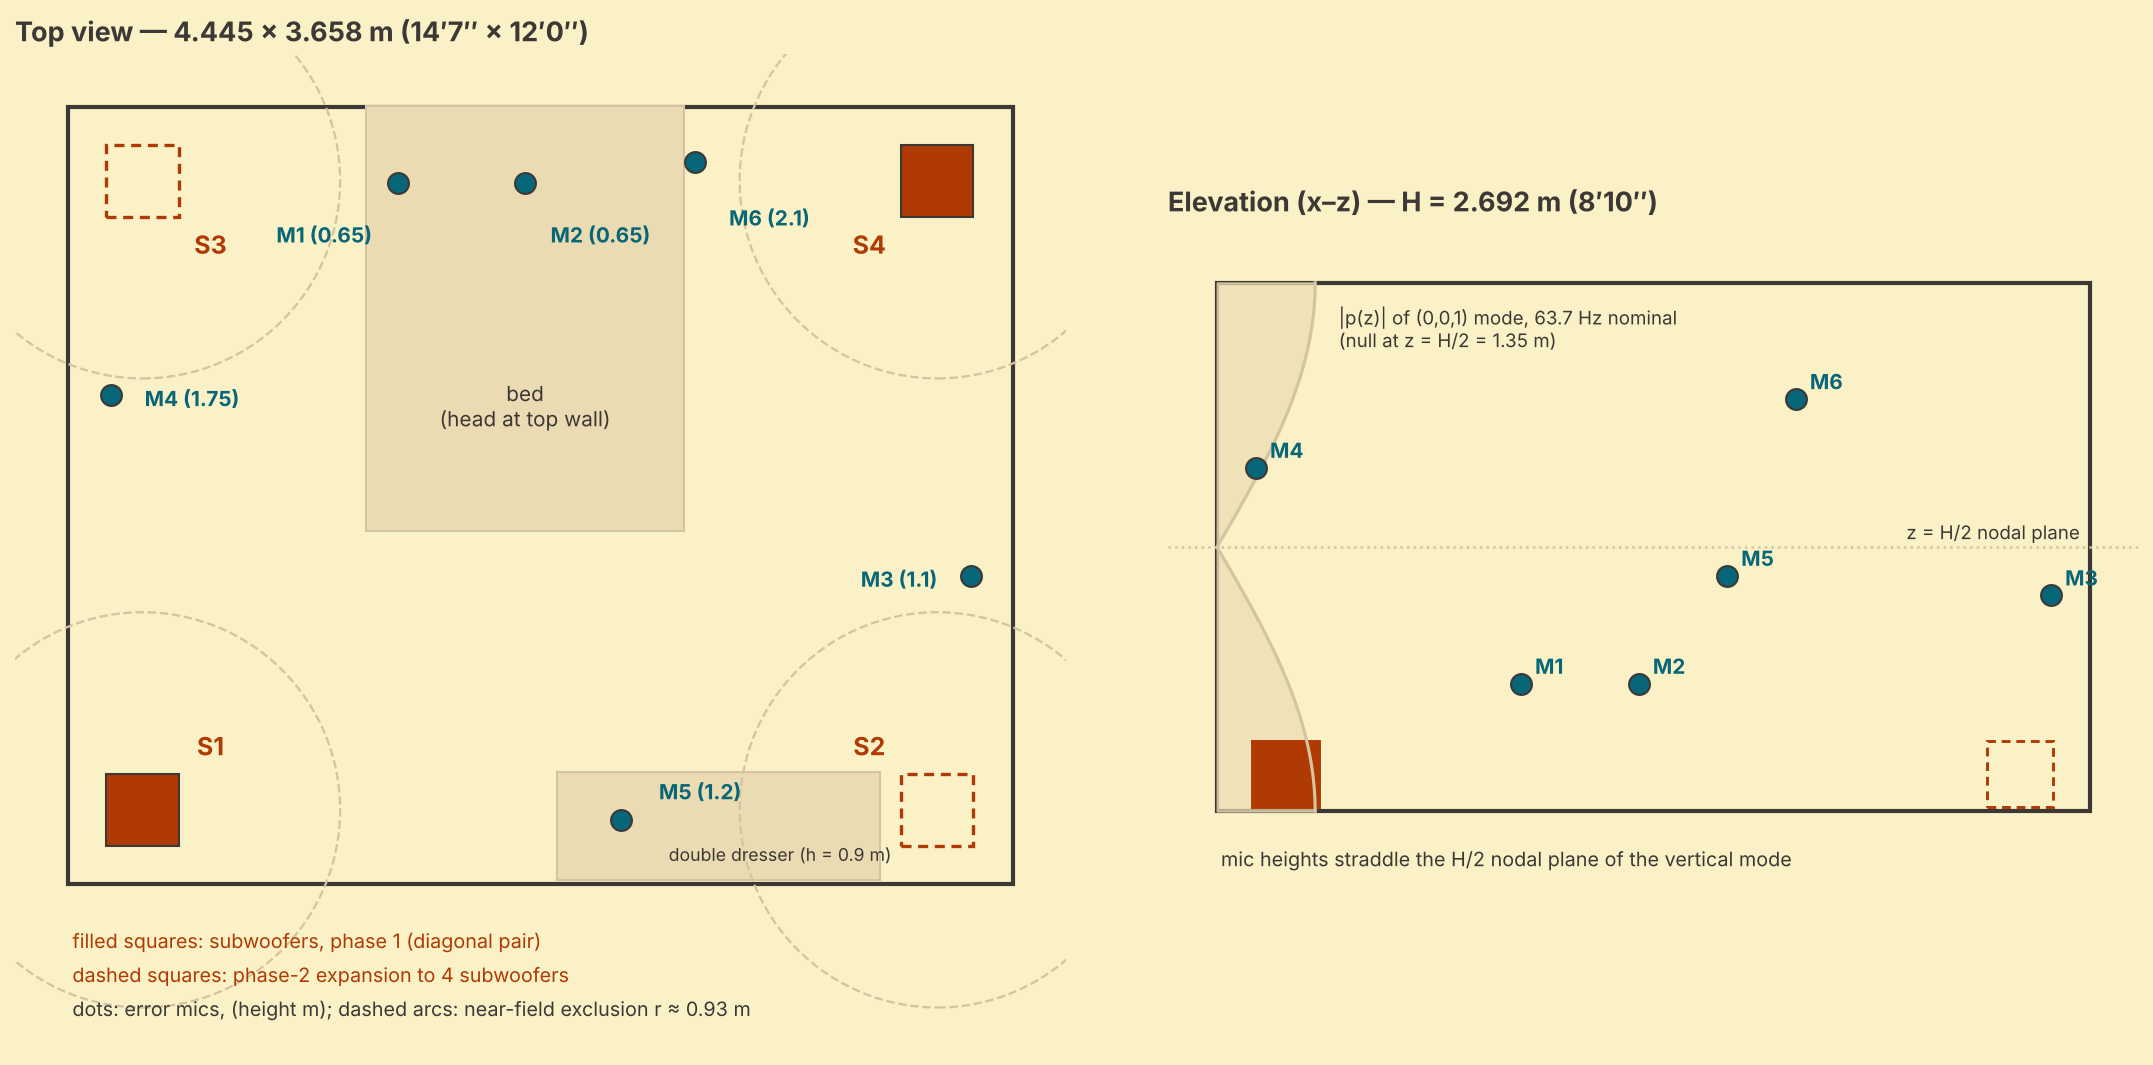
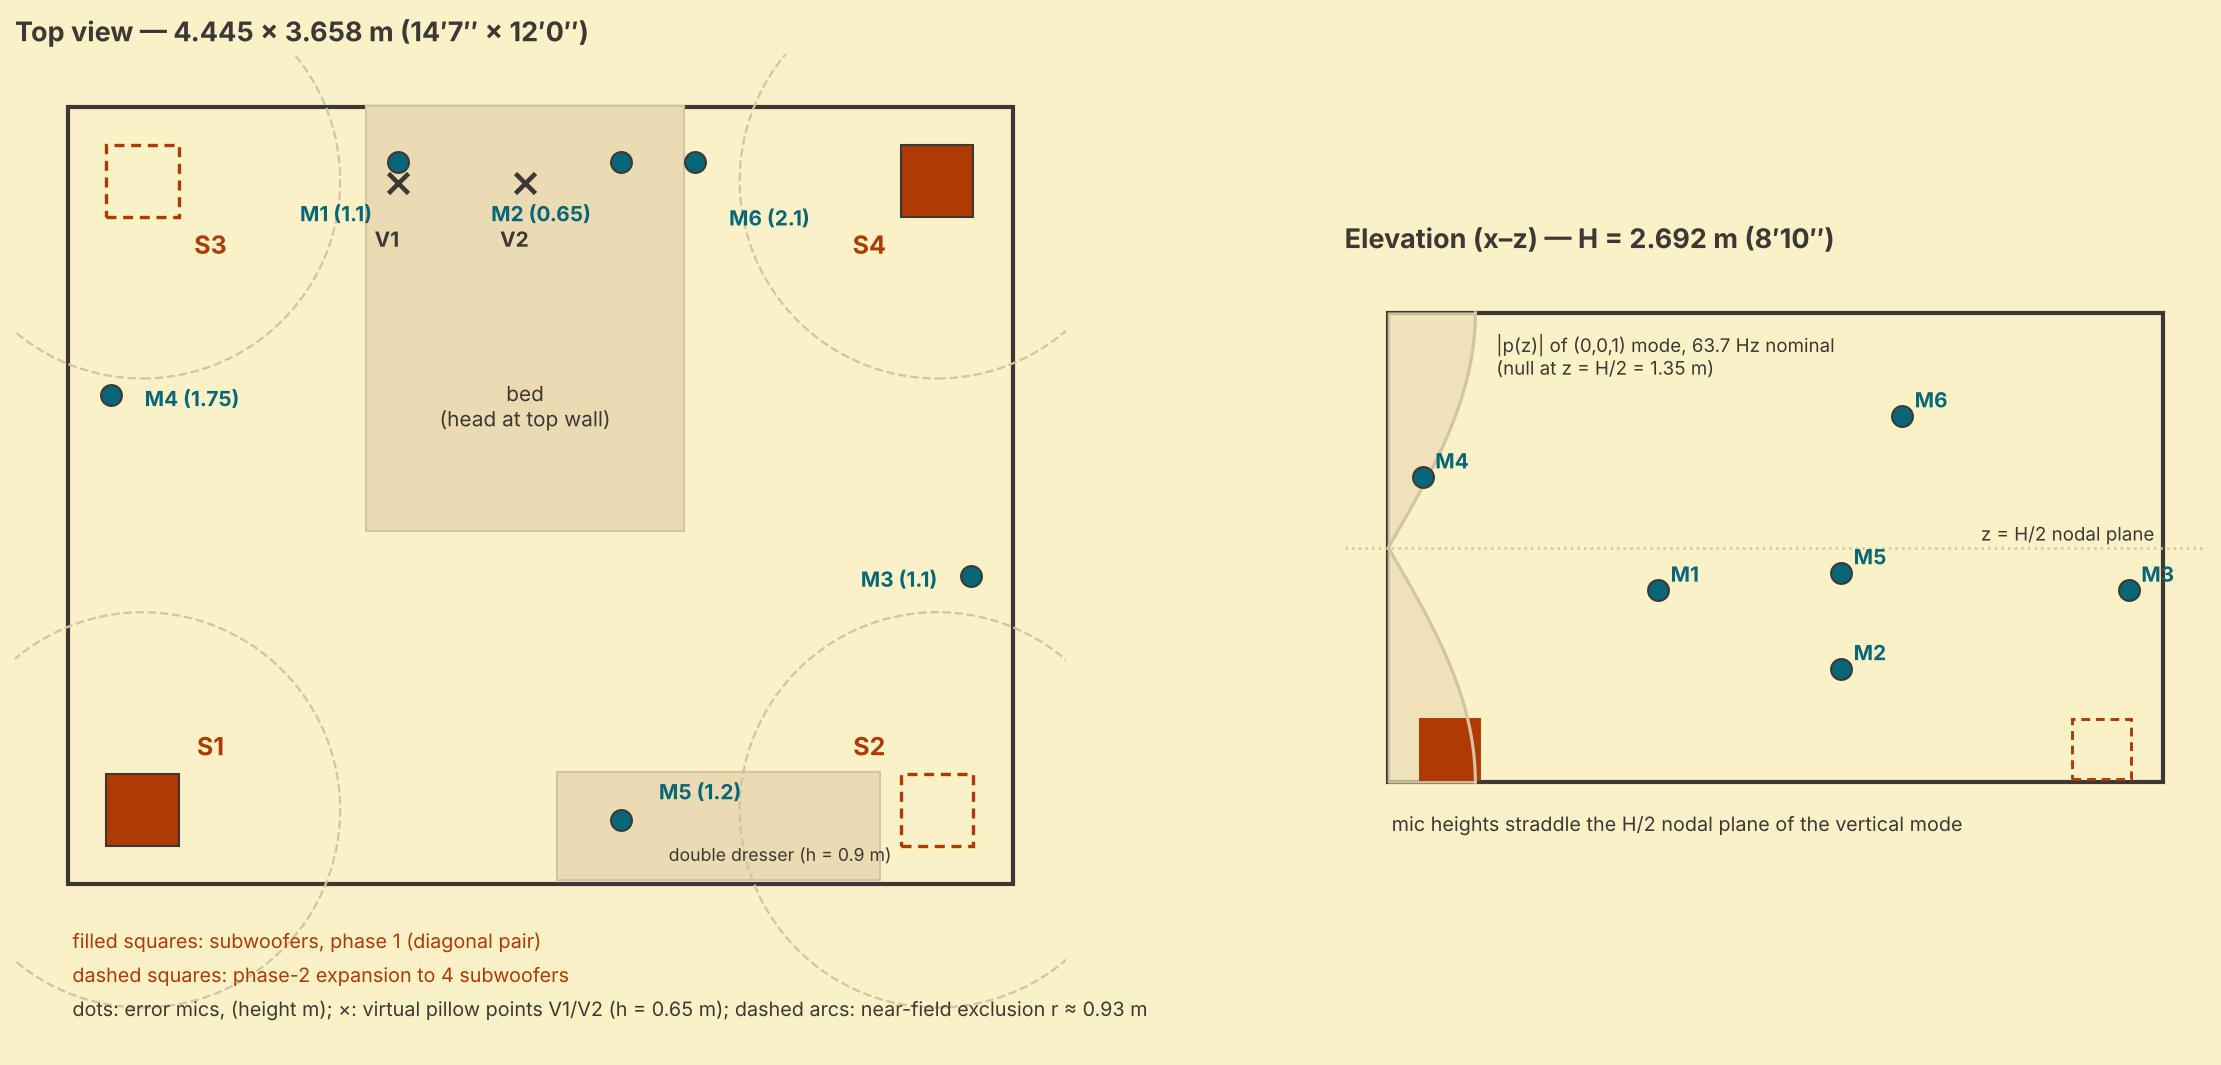
Adopt virtual error sensing at the pillows; relocate M1/M2 off the bed (#9)
Remote microphone technique: the controller minimizes estimated
pressure at virtual points V1/V2 at the pillows; M1/M2 move to wall
stands 0.46 m away. New scripts/virtual_sensing.py bounds the error by
Monte Carlo (-20 dB ceiling at 59 Hz); spec, Layout, Procedure and
Modes pages updated and figures regenerated.

Claude-Session: https://claude.ai/code/session_01GnuPVbCnFeuLL6Uqrv5bN3

diff --git a/scripts/virtual_sensing.py b/scripts/virtual_sensing.py
@@ -1,0 +1,103 @@
+#!/usr/bin/env python3
+"""Virtual (remote microphone) sensing analysis for the pillow positions.
+
+Usage: virtual_sensing.py
+Prints (stdout, markdown) the virtual-sensing error vs. displacement table
+and the layout-rule / observability check of the relocated M1/M2 for the
+Layout page.
+
+Technique. At a tracked tone f, the pillow pressure is estimated from the
+real error mics by one complex weight vector per tone,
+  e_v(f) = w(f)^H e(f),
+fitted in a calibration pass with a temporary mic at each pillow. This
+script quantifies the honest failure mode: w is fitted on one modal
+excitation and the modal mix then changes. Monte Carlo: draw random
+complex modal amplitudes a_n (all rigid-wall modes to 225 Hz, damped
+Lorentzian denominators as in room_modes.py), least-squares fit w from
+the mics to the two pillow points on training draws, report the median
+relative prediction error on fresh draws -- the ceiling on suppression
+achievable at the pillow. Perturbed tests (tone moved 1 Hz; all
+eigenfrequencies lowered 3% to mimic compliant walls) bound sensitivity
+to drift.
+
+Room and positions match scripts/room_layout.py and layout.qmd.
+"""
+import numpy as np
+from itertools import product
+
+rng = np.random.default_rng(7)
+LX, LY, LZ, C, DF = 4.445, 3.658, 2.692, 343.0, 5.5
+
+
+def freq(n):
+    return (C / 2) * np.sqrt((n[0] / LX)**2 + (n[1] / LY)**2 + (n[2] / LZ)**2)
+
+
+def psi(n, P):
+    x, y, z = P
+    return (np.cos(n[0] * np.pi * x / LX) * np.cos(n[1] * np.pi * y / LY)
+            * np.cos(n[2] * np.pi * z / LZ))
+
+
+NMAX = [int(np.ceil(2 * 225 * L / C)) for L in (LX, LY, LZ)]
+MODES = [(n, freq(n)) for n in product(*(range(m + 1) for m in NMAX))
+         if n != (0, 0, 0) and freq(n) <= 225]
+FN = np.array([fn for _, fn in MODES])
+
+PILLOWS = [(1.55, 3.30, 0.65), (2.15, 3.30, 0.65)]  # virtual points V1, V2
+# fixed mics (M3-M6) and the relocated head-wall pair (see layout.qmd)
+BASE = {"M3": (4.25, 1.45, 1.10), "M4": (0.20, 2.30, 1.75),
+        "M5": (2.60, 0.30, 1.20), "M6": (2.95, 3.40, 2.10)}
+M1_NEW, M2_NEW = (1.55, 3.40, 1.10), (2.60, 3.40, 0.65)
+
+
+def field_matrix(points, f, fn=None):
+    if fn is None:
+        fn = FN
+    G = np.array([[psi(n, P) for (n, _) in MODES] for P in points])
+    return G / (fn**2 - f**2 + 1j * f * DF)
+
+
+def vs_error(micpts, f, ntrain=400, ntest=400, fn_test=None, f_test=None):
+    Gm, Gp = field_matrix(micpts, f), field_matrix(PILLOWS, f)
+    A = rng.standard_normal((ntrain, len(MODES))) * (1 + 1j)
+    W = np.linalg.lstsq(A @ Gm.T, A @ Gp.T, rcond=None)[0]
+    Gm2 = field_matrix(micpts, f_test or f, fn_test)
+    Gp2 = field_matrix(PILLOWS, f_test or f, fn_test)
+    A2 = rng.standard_normal((ntest, len(MODES))) * (1 + 1j)
+    err = np.abs(A2 @ Gm2.T @ W - A2 @ Gp2.T) / np.median(np.abs(A2 @ Gp2.T))
+    return np.median(err)
+
+
+def pair_at(d):
+    """Pillow pair displaced by d: outboard along the head wall and up."""
+    return [(max(0.25, 1.55 - d), 3.40, min(2.3, 0.65 + 0.7 * d)),
+            (min(4.2, 2.15 + d), 3.40, min(2.3, 0.65 + 0.7 * d))]
+
+
+print("| Pair displacement (m) | 59 Hz error | ceiling (dB) | 39.9 Hz "
+      "error | +1 Hz drift | compliant walls (−3 %) |")
+print("|---:|---:|---:|---:|---:|---:|")
+for d in (0.0, 0.3, 0.6, 1.0, 1.5):
+    mics = list(BASE.values()) + pair_at(d)
+    e59 = vs_error(mics, 59.0)
+    print(f"| {d:.1f} | {e59:.3f} | {20*np.log10(e59):.0f} | "
+          f"{vs_error(mics, 39.9):.3f} | "
+          f"{vs_error(mics, 59.0, f_test=60.0):.3f} | "
+          f"{vs_error(mics, 59.0, fn_test=FN*0.97):.3f} |")
+
+# the adopted relocation
+mics = list(BASE.values()) + [M1_NEW, M2_NEW]
+e59 = vs_error(mics, 59.0)
+print(f"\n<!-- adopted M1={M1_NEW}, M2={M2_NEW}: 59 Hz error {e59:.3f} "
+      f"({20*np.log10(e59):.0f} dB ceiling), "
+      f"39.9 Hz {vs_error(mics, 39.9):.3f} -->")
+
+# layout-rule check: horizontal distance to every (present or future) sub
+SUBS = {"S1": (0.35, 0.35), "S2": (4.09, 0.35),
+        "S3": (0.35, 3.31), "S4": (4.09, 3.31)}
+ALL = dict(BASE, M1=M1_NEW, M2=M2_NEW)
+dmin = min((np.hypot(mx - sx, my - sy), m, s)
+           for m, (mx, my, mz) in ALL.items() for s, (sx, sy) in SUBS.items())
+print(f"<!-- min horizontal mic-sub distance: {dmin[0]:.2f} m "
+      f"({dmin[1]}-{dmin[2]}) -->")

diff --git a/scripts/room_layout.py b/scripts/room_layout.py
@@ -22,10 +22,13 @@ R_NF = 0.93  # near-field exclusion radius ~ lambda/2pi at 59 Hz
 SUBS = {"S1": (0.35, 0.35, True), "S2": (4.09, 0.35, False),
         "S3": (0.35, 3.31, False), "S4": (4.09, 3.31, True)}
 # (x, y, height) — all mics at the room perimeter (walls are pressure
-# antinodes); min distance to any sub corner 1.02 m (M4-S3)
-MICS = {"M1": (1.55, 3.30, 0.65), "M2": (2.15, 3.30, 0.65),
+# antinodes); min distance to any sub corner 1.02 m (M4-S3).
+# M1/M2 are displaced from the pillows; the pillow positions V1/V2 are
+# virtual sensing points (see layout.qmd and scripts/virtual_sensing.py)
+MICS = {"M1": (1.55, 3.40, 1.10), "M2": (2.60, 3.40, 0.65),
         "M3": (4.25, 1.45, 1.10), "M4": (0.20, 2.30, 1.75),
         "M5": (2.60, 0.30, 1.20), "M6": (2.95, 3.40, 2.10)}
+VIRTUAL = {"V1": (1.55, 3.30, 0.65), "V2": (2.15, 3.30, 0.65)}
 
 fig, (ax, axe) = plt.subplots(1, 2, figsize=(15, 7.2),
                               gridspec_kw={"width_ratios": [1.25, 1]})
@@ -57,7 +60,7 @@ for name, (x, y, p1) in SUBS.items():
     ax.text(x + dx, y + dy, name, ha="center", va="center",
             color=ACCENT, fontsize=12, fontweight="bold")
 
-LABEL_OFFSETS = {"M1": (-0.12, -0.28, "right"), "M2": (0.12, -0.28, "left"),
+LABEL_OFFSETS = {"M1": (-0.12, -0.28, "right"), "M2": (-0.14, -0.28, "right"),
                  "M3": (-0.16, -0.05, "right"), "M4": (0.16, -0.05, "left"),
                  "M5": (0.18, 0.10, "left"), "M6": (0.16, -0.30, "left")}
 for name, (x, y, h) in MICS.items():
@@ -65,13 +68,18 @@ for name, (x, y, h) in MICS.items():
     dx, dy, ha = LABEL_OFFSETS[name]
     ax.annotate(f"{name} ({h})", xy=(x, y), xytext=(x + dx, y + dy), ha=ha,
                 color=SERIES, fontsize=10, fontweight="bold")
+for name, (x, y, h) in VIRTUAL.items():
+    ax.plot([x], [y], "x", ms=10, color=INK, mew=2.2)
+    ax.annotate(name, xy=(x, y), xytext=(x - 0.05, y - 0.30), ha="center",
+                color=INK, fontsize=10, fontweight="bold")
 
 ax.text(0.02, -0.30, "filled squares: subwoofers, phase 1 (diagonal pair)",
         color=ACCENT, fontsize=9.5)
 ax.text(0.02, -0.46, "dashed squares: phase-2 expansion to 4 subwoofers",
         color=ACCENT, fontsize=9.5)
-ax.text(0.02, -0.62, "dots: error mics, (height m); dashed arcs: near-field "
-        "exclusion r ≈ 0.93 m", color=INK, fontsize=9.5)
+ax.text(0.02, -0.62, "dots: error mics, (height m); ×: virtual pillow "
+        "points V1/V2 (h = 0.65 m); dashed arcs: near-field exclusion "
+        "r ≈ 0.93 m", color=INK, fontsize=9.5)
 ax.set_xlim(-0.25, LX + 0.25)
 ax.set_ylim(-0.78, LY + 0.25)
 ax.set_aspect("equal")

diff --git a/scripts/room_modes.py b/scripts/room_modes.py
@@ -43,7 +43,7 @@ MEASURED = {39.9: "39.9 machine", 58.95: "59.0 drone", 61.1: "sideband",
             79.9: "2x39.9", 117.9: "2x59.0", 120.0: "mains"}
 
 # mic positions (x, y, h) from layout.qmd / room_layout.py
-MICS = {"M1": (1.55, 3.30, 0.65), "M2": (2.15, 3.30, 0.65),
+MICS = {"M1": (1.55, 3.40, 1.10), "M2": (2.60, 3.40, 0.65),
         "M3": (4.25, 1.45, 1.10), "M4": (0.20, 2.30, 1.75),
         "M5": (2.60, 0.30, 1.20), "M6": (2.95, 3.40, 2.10)}
 SUBS = {"S1": (0.35, 0.35, True), "S2": (4.09, 0.35, False),
